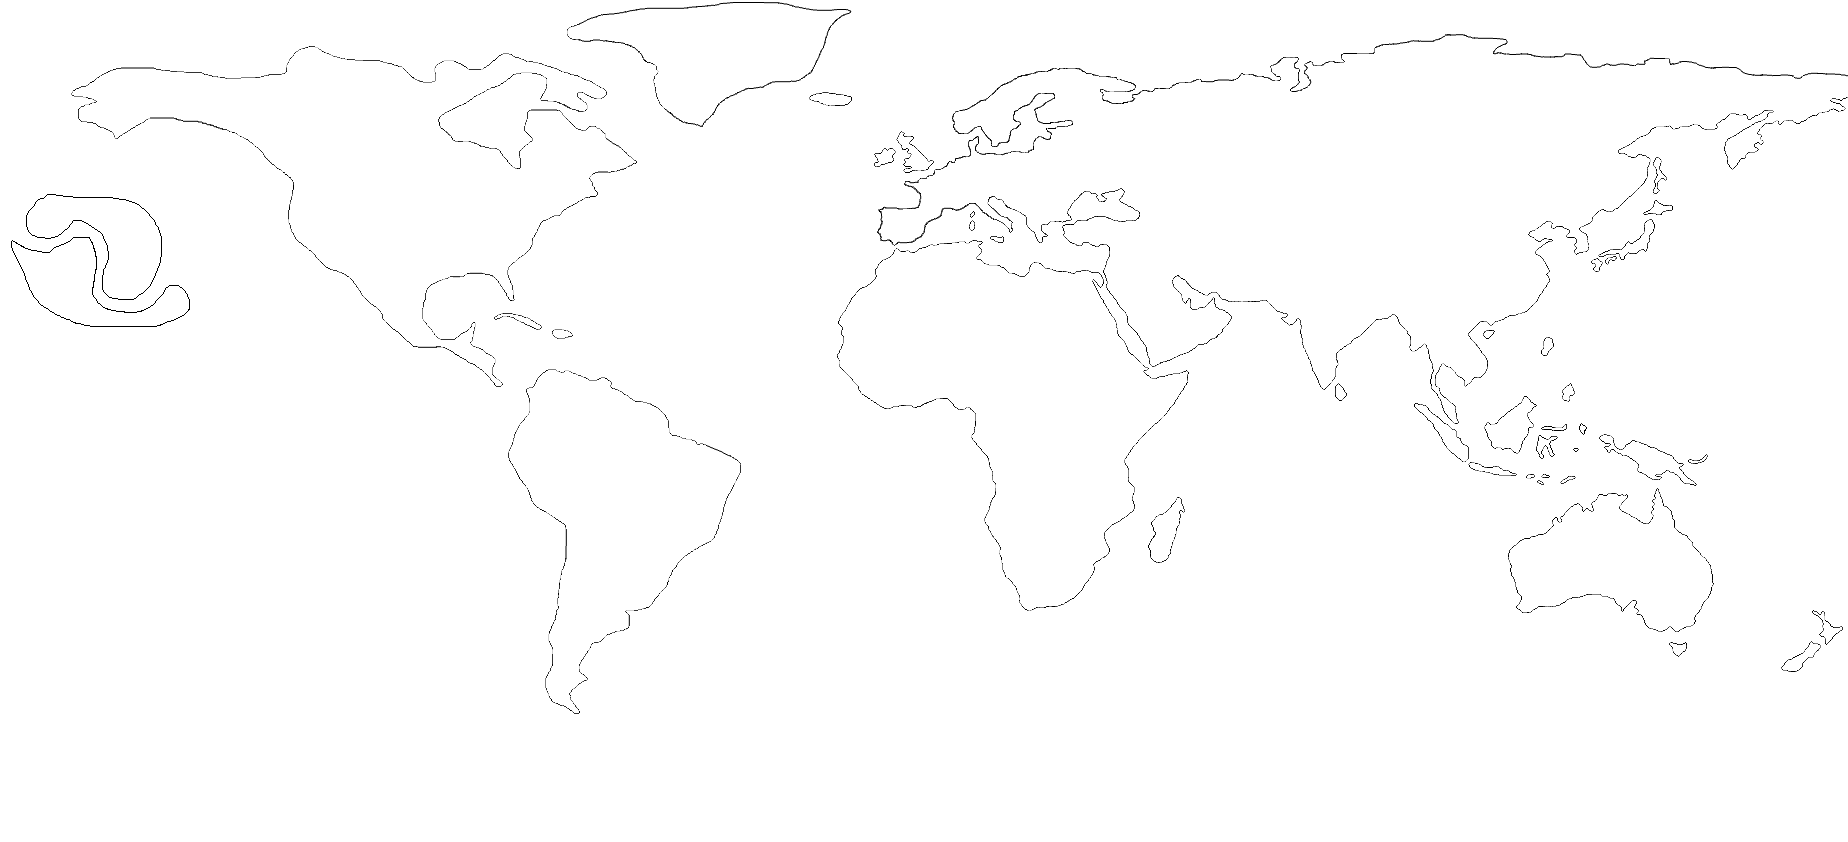
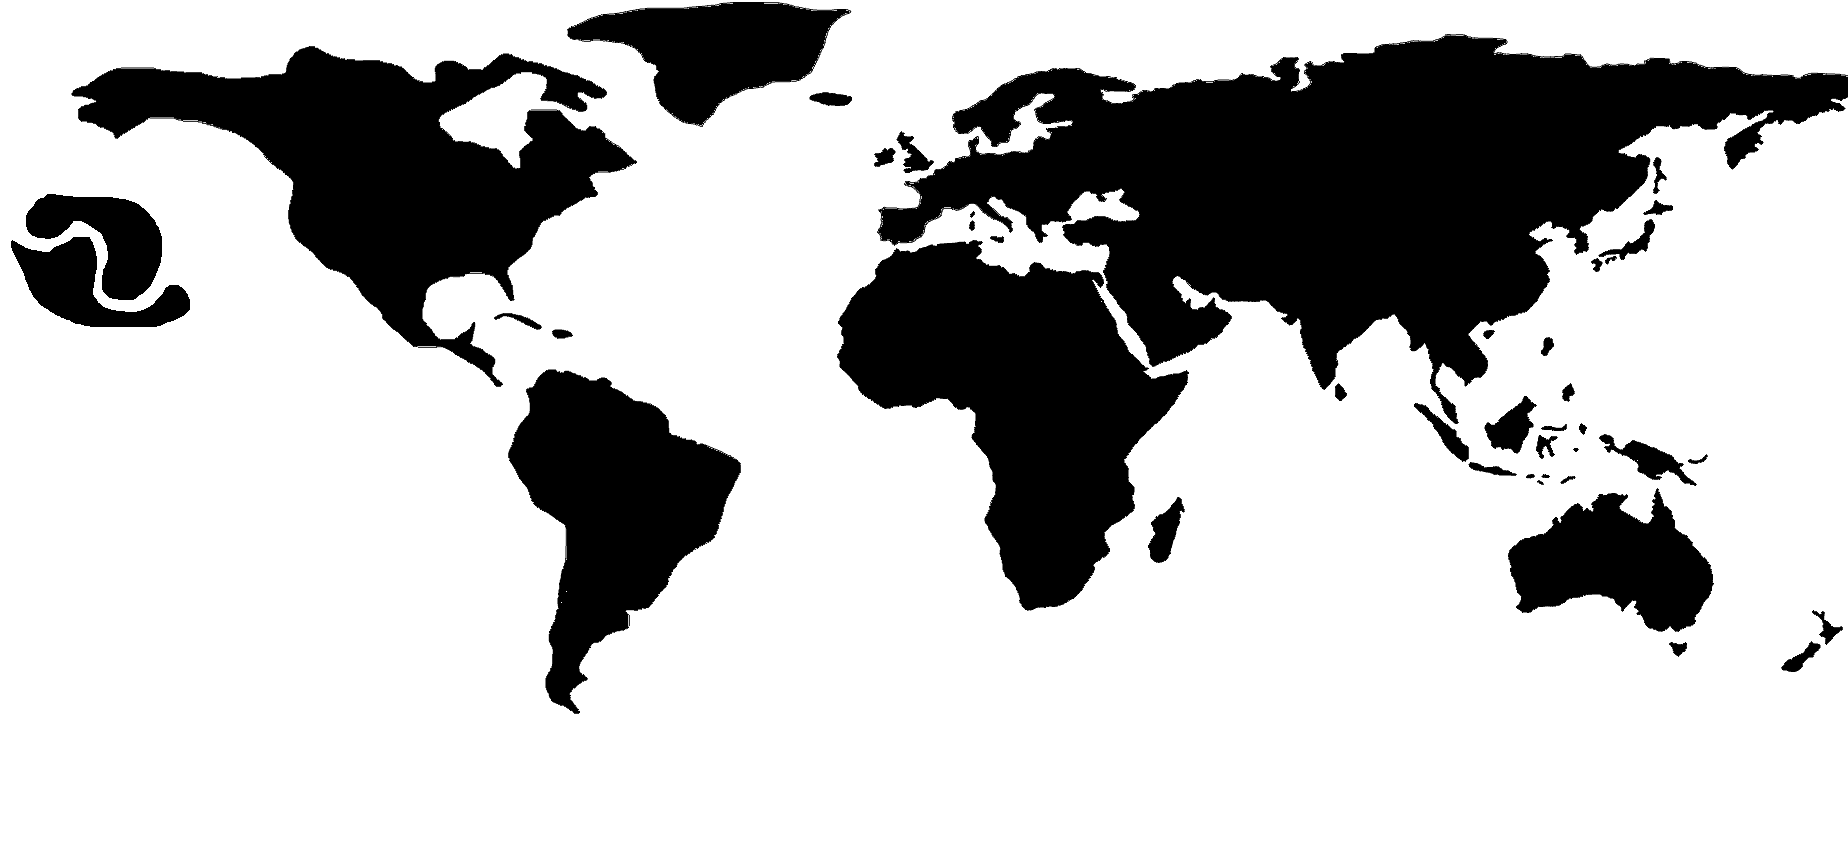
refacto extract borders + drawline, usage of S for the boths

diff --git a/tools/ExtractPixels/ExtractPixels/Program.cs b/tools/ExtractPixels/ExtractPixels/Program.cs
@@ -25,13 +25,14 @@ using ExtractPixels.MapProcessing.Model;
 using System.Drawing;
 
 string imageFilePath = Path.Combine(Environment.CurrentDirectory, "image.png");
+string outputMapPath = Path.Combine(Environment.CurrentDirectory, "map.png");
 string workMapPath = Path.Combine(Environment.CurrentDirectory, "map_step1.png");
 string workMapPath2 = Path.Combine(Environment.CurrentDirectory, "map_step2.png");
 
-var borderWalkingPointsCollection = new BorderPointCollection();
-var borderWalkingPointExtractor = new BorderWalkingPointExtractor(new List<IMapPointHandler>() { borderWalkingPointsCollection });
+var borderPointsCollection = new BorderPointCollection();
+var borderExtractor = new BorderWalkingPointExtractor(new List<IMapPointHandler>() { borderPointsCollection });
 
-var prod = false;
+
 int i = 1;//continent number
 int s = 1;//variable indicating progress when walking along the continents
 
@@ -41,33 +42,76 @@ using (var imageSource = new Bitmap(Image.FromFile(imageFilePath)))
     int height = imageSource.Height;
 
     var imageWork = imageSource.Clone() as Bitmap;
+    var imageOutput = imageSource.Clone() as Bitmap;
 
     for (int x = 0; x < width; x++)
     {
         for (int y = 0; y < height; y++)
         {
             imageWork.SetPixel(x, y, Color.White);
+            imageOutput.SetPixel(x, y, Color.White);
         }
     }
 
-
+    var prod = true;
     if (prod)
     {
-
+        borderExtractor.ExtractBorder(1847, 75, i++, ref s, imageSource, imageWork, workMapPath, imageOutput, outputMapPath);//continent eurasien
+        borderExtractor.ExtractBorder(973, 211, i++, ref s, imageSource, imageWork, workMapPath, imageOutput, outputMapPath);//
+        borderExtractor.ExtractBorder(972, 220, i++, ref s, imageSource, imageWork, workMapPath, imageOutput, outputMapPath);//
+        borderExtractor.ExtractBorder(991, 236, i++, ref s, imageSource, imageWork, workMapPath, imageOutput, outputMapPath);//
+        borderExtractor.ExtractBorder(904, 136, i++, ref s, imageSource, imageWork, workMapPath, imageOutput, outputMapPath);//angleterre
+        borderExtractor.ExtractBorder(875, 153, i++, ref s, imageSource, imageWork, workMapPath, imageOutput, outputMapPath);//irlande
+        borderExtractor.ExtractBorder(896, 248, i++, ref s, imageSource, imageWork, workMapPath, imageOutput, outputMapPath);//contient africain
+        borderExtractor.ExtractBorder(1177, 497, i++, ref s, imageSource, imageWork, workMapPath, imageOutput, outputMapPath);//madagascar
+        borderExtractor.ExtractBorder(1657, 488, i++, ref s, imageSource, imageWork, workMapPath, imageOutput, outputMapPath);//australie
+        borderExtractor.ExtractBorder(1656, 157, i++, ref s, imageSource, imageWork, workMapPath, imageOutput, outputMapPath);//japon
+        borderExtractor.ExtractBorder(1655, 200, i++, ref s, imageSource, imageWork, workMapPath, imageOutput, outputMapPath);//japon
+        borderExtractor.ExtractBorder(1649, 219, i++, ref s, imageSource, imageWork, workMapPath, imageOutput, outputMapPath);//japon
+        borderExtractor.ExtractBorder(1608, 257, i++, ref s, imageSource, imageWork, workMapPath, imageOutput, outputMapPath);//japon
+        borderExtractor.ExtractBorder(1596, 258, i++, ref s, imageSource, imageWork, workMapPath, imageOutput, outputMapPath);//japon
+        borderExtractor.ExtractBorder(1524, 396, i++, ref s, imageSource, imageWork, workMapPath, imageOutput, outputMapPath);//
+        borderExtractor.ExtractBorder(1415, 403, i++, ref s, imageSource, imageWork, workMapPath, imageOutput, outputMapPath);//
+        borderExtractor.ExtractBorder(1470, 462, i++, ref s, imageSource, imageWork, workMapPath, imageOutput, outputMapPath);//
+        borderExtractor.ExtractBorder(1562, 390, i++, ref s, imageSource, imageWork, workMapPath, imageOutput, outputMapPath);//
+        borderExtractor.ExtractBorder(1545, 426, i++, ref s, imageSource, imageWork, workMapPath, imageOutput, outputMapPath);//
+        borderExtractor.ExtractBorder(1579, 426, i++, ref s, imageSource, imageWork, workMapPath, imageOutput, outputMapPath);//
+        borderExtractor.ExtractBorder(1539, 439, i++, ref s, imageSource, imageWork, workMapPath, imageOutput, outputMapPath);//
+        borderExtractor.ExtractBorder(1574, 448, i++, ref s, imageSource, imageWork, workMapPath, imageOutput, outputMapPath);//
+        borderExtractor.ExtractBorder(1528, 474, i++, ref s, imageSource, imageWork, workMapPath, imageOutput, outputMapPath);//
+        borderExtractor.ExtractBorder(1543, 474, i++, ref s, imageSource, imageWork, workMapPath, imageOutput, outputMapPath);//
+        borderExtractor.ExtractBorder(1538, 480, i++, ref s, imageSource, imageWork, workMapPath, imageOutput, outputMapPath);//
+        borderExtractor.ExtractBorder(1568, 476, i++, ref s, imageSource, imageWork, workMapPath, imageOutput, outputMapPath);//
+        borderExtractor.ExtractBorder(1568, 476, i++, ref s, imageSource, imageWork, workMapPath, imageOutput, outputMapPath);//
+        borderExtractor.ExtractBorder(1604, 434, i++, ref s, imageSource, imageWork, workMapPath, imageOutput, outputMapPath);//
+        borderExtractor.ExtractBorder(1693, 460, i++, ref s, imageSource, imageWork, workMapPath, imageOutput, outputMapPath);//
+        borderExtractor.ExtractBorder(1487, 330, i++, ref s, imageSource, imageWork, workMapPath, imageOutput, outputMapPath);//
+        borderExtractor.ExtractBorder(1543, 341, i++, ref s, imageSource, imageWork, workMapPath, imageOutput, outputMapPath);//
+        borderExtractor.ExtractBorder(1335, 386, i++, ref s, imageSource, imageWork, workMapPath, imageOutput, outputMapPath);//
+        borderExtractor.ExtractBorder(1677, 644, i++, ref s, imageSource, imageWork, workMapPath, imageOutput, outputMapPath);//
+        borderExtractor.ExtractBorder(1812, 611, i++, ref s, imageSource, imageWork, workMapPath, imageOutput, outputMapPath);//
+        borderExtractor.ExtractBorder(1789, 671, i++, ref s, imageSource, imageWork, workMapPath, imageOutput, outputMapPath);//
+        borderExtractor.ExtractBorder(822, 92, i++, ref s, imageSource, imageWork, workMapPath, imageOutput, outputMapPath);//islande
+        borderExtractor.ExtractBorder(748, 2, i++, ref s, imageSource, imageWork, workMapPath, imageOutput, outputMapPath);//groenland
+        borderExtractor.ExtractBorder(443, 339, i++, ref s, imageSource, imageWork, workMapPath, imageOutput, outputMapPath);//amerique du nord
+        borderExtractor.ExtractBorder(526, 392, i++, ref s, imageSource, imageWork, workMapPath, imageOutput, outputMapPath);//amerique du sud
+        borderExtractor.ExtractBorder(505, 313, i++, ref s, imageSource, imageWork, workMapPath, imageOutput, outputMapPath);//
+        borderExtractor.ExtractBorder(557, 329, i++, ref s, imageSource, imageWork, workMapPath, imageOutput, outputMapPath);//
     }
     else
     {
-        //borderWalkingPointExtractor.ExtractBorderWalkingPoints(26, 222, i++, ref s, imageSource, imageWork, workMapPath);
-        //borderWalkingPointExtractor.ExtractBorderWalkingPoints(11, 243, i++, ref s, imageSource, imageWork, workMapPath);
+        borderExtractor.ExtractBorder(26, 222, i++, ref s, imageSource, imageWork, workMapPath, imageOutput, outputMapPath);
+        borderExtractor.ExtractBorder(11, 243, i++, ref s, imageSource, imageWork, workMapPath, imageOutput, outputMapPath);
     }
-    //borderWalkingPointsCollection.LinkFirstAndLastOfContinent(null);
+    borderPointsCollection.LinkFirstAndLastOfContinent(null);
 
 
-    //File.Copy(workMapPath, workMapPath2, true);
+    File.Copy(workMapPath, workMapPath2, true);
 
-    //Console.WriteLine("Veuillez ouvrir avec paint l'image suivante et remplir les continents avec une couleur");
-    //Console.WriteLine($"Fichier : {workMapPath2}");
-    //Console.ReadLine();
+    Console.WriteLine("Veuillez ouvrir avec paint l'image suivante et remplir les continents avec une couleur");
+    Console.WriteLine($"Fichier : {workMapPath2}");
+    Console.WriteLine("(  La couleur des bordures est RGB(119, 255, 118)  )");
+    Console.ReadLine();
 
     //MapUtils.DrawLine(new MapPoint(26, 219), new MapPoint(189, 304), width, height, imageFilePath);//pente negative, inversion y en biais
     //MapUtils.DrawLine(new MapPoint(77, 94), new MapPoint(80, 333), width, height, imageFilePath);//pente negative vertical
@@ -77,7 +121,7 @@ using (var imageSource = new Bitmap(Image.FromFile(imageFilePath)))
     //MapUtils.DrawLine(new MapPoint(254, 459), new MapPoint(350, 450), width, height, imageFilePath);//pente positive horizontal
     //MapUtils.DrawLine(new MapPoint(141, 778), new MapPoint(290, 710), width, height, imageFilePath);//pente positive diagonale
     //MapUtils.DrawLine(new MapPoint(151, 70), new MapPoint(300, 137), width, height, imageFilePath);//pente negative diagonale
-    MapUtils.DrawLine(new MapPoint(151, 70), new MapPoint(300, 120), width, height, imageFilePath);//pente negative diagonale
+    //MapUtils.DrawLine(new MapPoint(151, 70), new MapPoint(300, 120), width, height, imageFilePath);//pente negative diagonale
 }
 
 Console.WriteLine("ended");

diff --git a/tools/ExtractPixels/ExtractPixels/MapProcessing/BorderWalkingPointExtractor.cs b/tools/ExtractPixels/ExtractPixels/MapProcessing/BorderWalkingPointExtractor.cs
@@ -20,6 +20,8 @@ public class BorderWalkingPointExtractor
     public static Color ImageBorderColor = Color.Black;
     public static Color WorkBorderColor = Color.Blue;
     public static Color SeaColor = Color.White;
+    public static Color OutMapBorderColor = Color.FromArgb(119, 255, 118);
+
     public const int MaxDepth = 5;
 
     public BorderWalkingPointExtractor(IEnumerable<IMapPointHandler> mapPointHandlers)
@@ -27,8 +29,8 @@ public class BorderWalkingPointExtractor
         _mapPointHandlers = mapPointHandlers;
     }
 
-    public void ExtractBorderWalkingPoints(int xStart, int yStart, int continentNumber, ref int s,
-        Bitmap imageSource, Bitmap imageWork, string workFilePath)
+    public void ExtractBorder(int xStart, int yStart, int continentNumber, ref int s,
+        Bitmap imageSource, Bitmap imageWork, string workFilePath, Bitmap imageOutput, string outputMapPath)
     {
         var pStart = new MapPoint(xStart, yStart);
         var p1 = new MapPoint(xStart, yStart);
@@ -36,12 +38,19 @@ public class BorderWalkingPointExtractor
         imageWork.SetPixel(pStart.X, pStart.Y, WorkBorderColor);
         imageWork.Save(workFilePath);
 
+        imageOutput.SetPixel(pStart.X, pStart.Y, OutMapBorderColor);
+        imageOutput.Save(outputMapPath);
+
+
         ProcessMapPoint(pStart, continentNumber, ref s);
 
         while (TryGetNextBorderPoint(pStart, p1, foundPixels, imageSource, imageWork, out MapPoint p2) > 0)
         {
             imageWork.SetPixel(p2.X, p2.Y, WorkBorderColor);
             imageWork.Save(workFilePath);
+
+            imageOutput.SetPixel(p2.X, p2.Y, OutMapBorderColor);
+            imageOutput.Save(outputMapPath);
 
             ProcessMapPoint(p1, continentNumber, ref s);
 
@@ -148,7 +157,8 @@ public class BorderWalkingPointExtractor
     public bool IsNextBorderPoint(MapPoint pCurrent, MapPoint pLastFound, List<MapPoint> foundPixels, 
         Bitmap imageSource, Bitmap imageWork)
     {
-        var currentIsBorder = imageSource.GetPixel(pCurrent.X, pCurrent.Y).ToArgb() == ImageBorderColor.ToArgb();
+        var color = imageSource.GetPixel(pCurrent.X, pCurrent.Y).ToArgb();
+        var currentIsBorder = color != WorkBorderColor.ToArgb() && color != SeaColor.ToArgb();
         var lastFoundIsBorder = imageWork.GetPixel(pLastFound.X, pLastFound.Y).ToArgb() == WorkBorderColor.ToArgb();
 
         var pointNeighbours = GetNeighbourPixels(pCurrent, imageSource);
